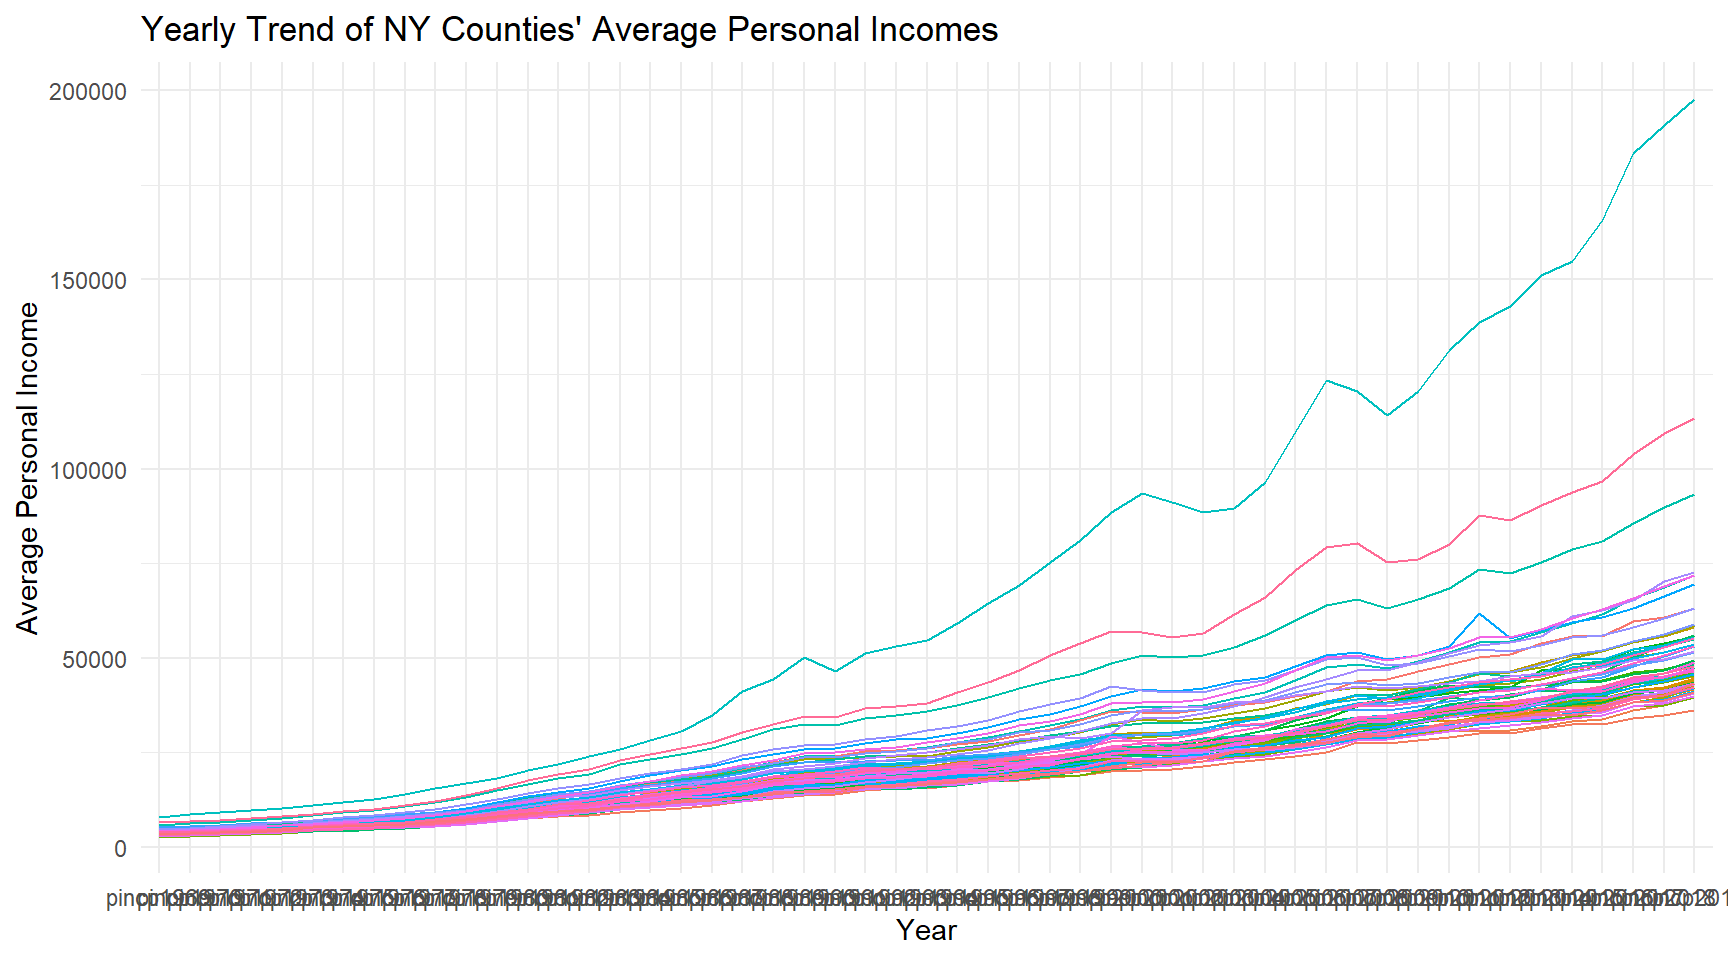
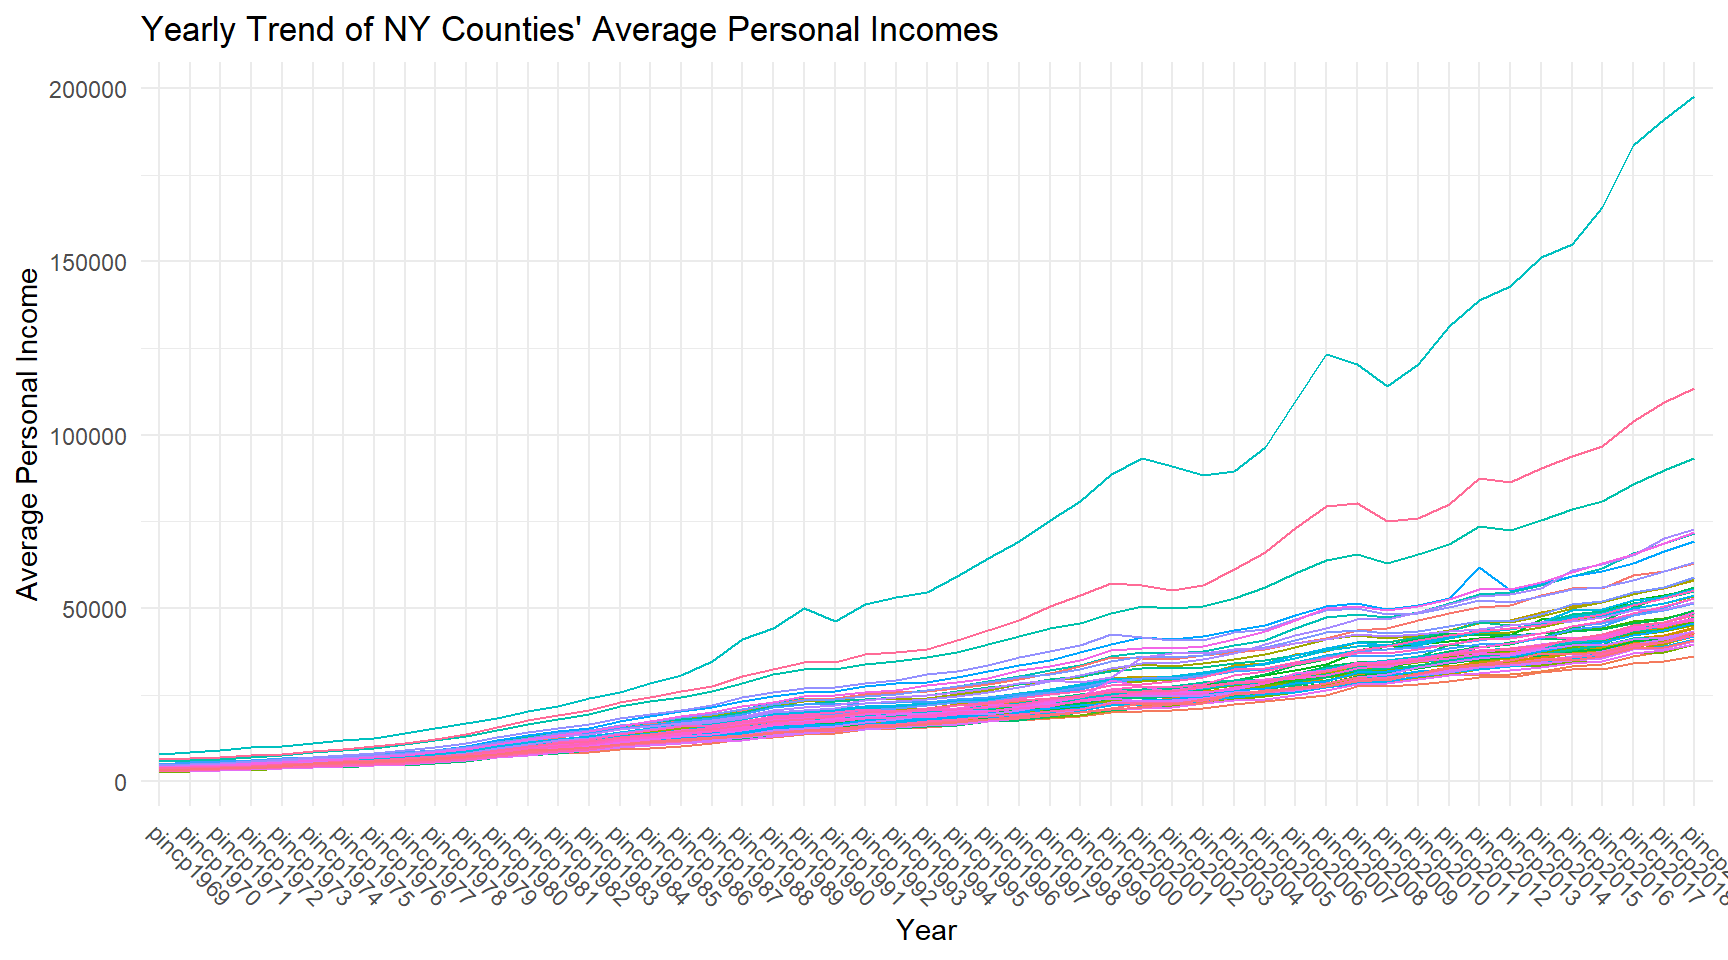
done

diff --git a/project.html b/project.html
@@ -9,7 +9,6 @@
 <meta name="author" content="Jaxson Marsh">
 <meta name="author" content="Edward Eforo">
 <meta name="author" content="Angelina Batista">
-<meta name="author" content="Daniel Noone">
 <meta name="author" content="Elizabeth Dutan">
 
 <title>Jaxson Marsh - DANL Project</title>
@@ -156,7 +155,10 @@ pre > code.sourceCode > span > a:first-child::before { text-decoration: underlin
   <li><a href="#data" id="toc-data" class="nav-link" data-scroll-target="#data"><span class="header-section-number">2</span> Data</a>
   <ul class="collapse">
   <li><a href="#summary-statistics" id="toc-summary-statistics" class="nav-link" data-scroll-target="#summary-statistics"><span class="header-section-number">2.1</span> Summary Statistics</a></li>
-  <li><a href="#quality-of-sleep-under-stress" id="toc-quality-of-sleep-under-stress" class="nav-link" data-scroll-target="#quality-of-sleep-under-stress"><span class="header-section-number">2.2</span> Quality of Sleep Under Stress</a></li>
+  <li><a href="#sleep-duration-by-ocupation" id="toc-sleep-duration-by-ocupation" class="nav-link" data-scroll-target="#sleep-duration-by-ocupation"><span class="header-section-number">2.2</span> Sleep Duration by Ocupation</a></li>
+  <li><a href="#effect-of-physical-activity-and-sleep-duration-on-stress" id="toc-effect-of-physical-activity-and-sleep-duration-on-stress" class="nav-link" data-scroll-target="#effect-of-physical-activity-and-sleep-duration-on-stress"><span class="header-section-number">2.3</span> Effect of Physical Activity and Sleep Duration on Stress</a></li>
+  <li><a href="#sleep-duration-and-quality-of-sleep-among-varying-sleep-disorders" id="toc-sleep-duration-and-quality-of-sleep-among-varying-sleep-disorders" class="nav-link" data-scroll-target="#sleep-duration-and-quality-of-sleep-among-varying-sleep-disorders"><span class="header-section-number">2.4</span> Sleep Duration and Quality of Sleep Among Varying Sleep Disorders</a></li>
+  <li><a href="#effect-of-age-and-occupation-on-bmi" id="toc-effect-of-age-and-occupation-on-bmi" class="nav-link" data-scroll-target="#effect-of-age-and-occupation-on-bmi"><span class="header-section-number">2.5</span> Effect of Age and Occupation on BMI</a></li>
   </ul></li>
   </ul>
 </nav>
@@ -180,7 +182,6 @@ pre > code.sourceCode > span > a:first-child::before { text-decoration: underlin
              <p>Jaxson Marsh </p>
              <p>Edward Eforo </p>
              <p>Angelina Batista </p>
-             <p>Daniel Noone </p>
              <p>Elizabeth Dutan </p>
           </div>
   </div>
@@ -201,7 +202,7 @@ pre > code.sourceCode > span > a:first-child::before { text-decoration: underlin
 </section>
 <section id="data" class="level1" data-number="2">
 <h1 data-number="2"><span class="header-section-number">2</span> Data</h1>
-<p>The data.frame <code>sleephealth</code> contains a subset of the fuel economy data that the EPA makes available on <a href="https://fueleconomy.gov/">https://kaggle.com/</a>. It comprises 400 rows and 13 columns, covering a wide range of variables related to sleep and daily habits. It includes details such as gender, age, occupation, sleep duration, quality of sleep, physical activity level, stress levels, BMI category, blood pressure, heart rate, daily steps, and the presence or absence of sleep disorders. <span class="emoji" data-emoji="bed">🛏</span></p>
+<p>The data.frame <code>sleephealth</code> contains a subset of the fuel economy data that the EPA makes available on <a href="https://fueleconomy.gov/">https://kaggle.com/</a>. It comprises 400 rows and 13 columns, covering a wide range of variables related to sleep and daily habits. It includes variables such as gender, age, occupation, sleep duration, quality of sleep, physical activity level, stress levels, BMI category, blood pressure, heart rate, daily steps, and the presence or absence of sleep disorders. <span class="emoji" data-emoji="bed">🛏</span></p>
 <section id="summary-statistics" class="level2" data-number="2.1">
 <h2 data-number="2.1" class="anchored" data-anchor-id="summary-statistics"><span class="header-section-number">2.1</span> Summary Statistics</h2>
 <div class="cell">
@@ -451,9 +452,101 @@ pre > code.sourceCode > span > a:first-child::before { text-decoration: underlin
 </div>
 </div>
 </section>
-<section id="quality-of-sleep-under-stress" class="level2" data-number="2.2">
-<h2 data-number="2.2" class="anchored" data-anchor-id="quality-of-sleep-under-stress"><span class="header-section-number">2.2</span> Quality of Sleep Under Stress</h2>
-<p>The following boxplot shows how the distribution of Quality of Sleep (<code>Quality.of.Sleep</code>) varies by a Stress Level (<code>Stress.Level</code>) <span class="emoji" data-emoji="sleeping">😴</span> <span class="emoji" data-emoji="bed">🛏</span> <span class="emoji" data-emoji="angry">😠</span>.</p>
+<section id="sleep-duration-by-ocupation" class="level2" data-number="2.2">
+<h2 data-number="2.2" class="anchored" data-anchor-id="sleep-duration-by-ocupation"><span class="header-section-number">2.2</span> Sleep Duration by Ocupation</h2>
+<p>The following boxplot shows how the mean sleep duration (<code>Sleep.Duration</code>) varies by occupation (<code>Occupation</code>) <span class="emoji" data-emoji="sleeping">😴</span> <span class="emoji" data-emoji="bed">🛏</span> .</p>
+<div class="cell">
+<div class="sourceCode cell-code" id="cb4"><pre class="sourceCode r code-with-copy"><code class="sourceCode r"><span id="cb4-1"><a href="#cb4-1" aria-hidden="true" tabindex="-1"></a>mean_sleep_job <span class="ot">&lt;-</span> sleephealth <span class="sc">%&gt;%</span></span>
+<span id="cb4-2"><a href="#cb4-2" aria-hidden="true" tabindex="-1"></a>  <span class="fu">group_by</span>(Occupation) <span class="sc">%&gt;%</span></span>
+<span id="cb4-3"><a href="#cb4-3" aria-hidden="true" tabindex="-1"></a>  <span class="fu">summarize</span>(</span>
+<span id="cb4-4"><a href="#cb4-4" aria-hidden="true" tabindex="-1"></a>    <span class="at">n =</span> <span class="fu">n</span>(),</span>
+<span id="cb4-5"><a href="#cb4-5" aria-hidden="true" tabindex="-1"></a>    <span class="at">sleep_mean =</span> <span class="fu">mean</span>(Sleep.Duration, <span class="at">na.rm =</span> <span class="cn">TRUE</span>)</span>
+<span id="cb4-6"><a href="#cb4-6" aria-hidden="true" tabindex="-1"></a>  ) <span class="sc">%&gt;%</span></span>
+<span id="cb4-7"><a href="#cb4-7" aria-hidden="true" tabindex="-1"></a>  <span class="fu">arrange</span>(<span class="fu">desc</span>(n))</span>
+<span id="cb4-8"><a href="#cb4-8" aria-hidden="true" tabindex="-1"></a>mean_sleep_job</span></code><button title="Copy to Clipboard" class="code-copy-button"><i class="bi"></i></button></pre></div>
+<div class="cell-output cell-output-stdout">
+<pre><code># A tibble: 11 × 3
+   Occupation               n sleep_mean
+   &lt;chr&gt;                &lt;int&gt;      &lt;dbl&gt;
+ 1 Nurse                   73       7.06
+ 2 Doctor                  71       6.97
+ 3 Engineer                63       7.99
+ 4 Lawyer                  47       7.41
+ 5 Teacher                 40       6.69
+ 6 Accountant              37       7.11
+ 7 Salesperson             32       6.40
+ 8 Scientist                4       6   
+ 9 Software Engineer        4       6.75
+10 Sales Representative     2       5.9 
+11 Manager                  1       6.9 </code></pre>
+</div>
+<div class="sourceCode cell-code" id="cb6"><pre class="sourceCode r code-with-copy"><code class="sourceCode r"><span id="cb6-1"><a href="#cb6-1" aria-hidden="true" tabindex="-1"></a><span class="fu">ggplot</span>( <span class="at">data =</span> mean_sleep_job, <span class="at">mapping =</span> <span class="fu">aes</span>(<span class="at">x =</span> Occupation, <span class="at">y =</span> sleep_mean)) <span class="sc">+</span> </span>
+<span id="cb6-2"><a href="#cb6-2" aria-hidden="true" tabindex="-1"></a>          <span class="fu">geom_bar</span>(<span class="at">stat =</span> <span class="st">"identity"</span>) <span class="sc">+</span></span>
+<span id="cb6-3"><a href="#cb6-3" aria-hidden="true" tabindex="-1"></a>  <span class="fu">theme</span>(<span class="at">axis.text.x =</span> <span class="fu">element_text</span>(</span>
+<span id="cb6-4"><a href="#cb6-4" aria-hidden="true" tabindex="-1"></a>  <span class="at">angle =</span> <span class="sc">-</span><span class="dv">45</span>,</span>
+<span id="cb6-5"><a href="#cb6-5" aria-hidden="true" tabindex="-1"></a>  <span class="at">hjust =</span> <span class="dv">0</span>,</span>
+<span id="cb6-6"><a href="#cb6-6" aria-hidden="true" tabindex="-1"></a>  <span class="at">vjust =</span> <span class="dv">1</span></span>
+<span id="cb6-7"><a href="#cb6-7" aria-hidden="true" tabindex="-1"></a>))</span></code><button title="Copy to Clipboard" class="code-copy-button"><i class="bi"></i></button></pre></div>
+<div class="cell-output-display">
+<p><img src="project_files/figure-html/unnamed-chunk-5-1.png" class="img-fluid" width="864"></p>
+</div>
+</div>
+<p>The bar graph represents the mean sleep duration amongst all the presented occupations in the ‘sleephealth’ dataset. After putting the data into a ggplot figure, it was found that engineer’s, on average, have the highest mean sleep duration at about 8 hours per night, and sales representative’s had the lowest mean sleep duration at just under 6 hours a night.</p>
+</section>
+<section id="effect-of-physical-activity-and-sleep-duration-on-stress" class="level2" data-number="2.3">
+<h2 data-number="2.3" class="anchored" data-anchor-id="effect-of-physical-activity-and-sleep-duration-on-stress"><span class="header-section-number">2.3</span> Effect of Physical Activity and Sleep Duration on Stress</h2>
+<p>This ggplot shows the effect of someone’s sleep duration (‘Sleep.Duration’) and level of physical activity (‘Physical.Activity.Level’) on their stress levels (‘Stress.Level’) <span class="emoji" data-emoji="angry">😠</span> <span class="emoji" data-emoji="smile">😄</span> .</p>
+<div class="cell">
+<div class="sourceCode cell-code" id="cb7"><pre class="sourceCode r code-with-copy"><code class="sourceCode r"><span id="cb7-1"><a href="#cb7-1" aria-hidden="true" tabindex="-1"></a><span class="fu">ggplot</span>(sleephealth, <span class="fu">aes</span>(<span class="at">x =</span> Sleep.Duration, <span class="at">y =</span> Physical.Activity.Level, <span class="at">color =</span> Stress.Level)) <span class="sc">+</span></span>
+<span id="cb7-2"><a href="#cb7-2" aria-hidden="true" tabindex="-1"></a>  <span class="fu">geom_point</span>() <span class="sc">+</span></span>
+<span id="cb7-3"><a href="#cb7-3" aria-hidden="true" tabindex="-1"></a>  <span class="fu">labs</span>(<span class="at">title =</span> <span class="st">"Effect of Physical Activity and Sleep Duration on Stress"</span>,</span>
+<span id="cb7-4"><a href="#cb7-4" aria-hidden="true" tabindex="-1"></a>       <span class="at">x =</span> <span class="st">"Sleep Duration"</span>,</span>
+<span id="cb7-5"><a href="#cb7-5" aria-hidden="true" tabindex="-1"></a>       <span class="at">y =</span> <span class="st">"Physical Activity Level"</span>,</span>
+<span id="cb7-6"><a href="#cb7-6" aria-hidden="true" tabindex="-1"></a>       <span class="at">color =</span> <span class="st">"Stress Level"</span>) <span class="sc">+</span></span>
+<span id="cb7-7"><a href="#cb7-7" aria-hidden="true" tabindex="-1"></a>  <span class="fu">theme</span>(<span class="at">plot.title =</span> <span class="fu">element_text</span>(<span class="at">size =</span> <span class="dv">10</span>))</span></code><button title="Copy to Clipboard" class="code-copy-button"><i class="bi"></i></button></pre></div>
+<div class="cell-output-display">
+<p><img src="project_files/figure-html/unnamed-chunk-6-1.png" class="img-fluid" width="864"></p>
+</div>
+</div>
+<p>The above scatter plot visualizes the relationship between sleep duration and physical activity level in the ‘sleephealth’ dataset, with stress levels represented by color. Some interesting findings that were found was that a higher sleep duration and level of physical activity resulted in lower overall stress levels, while higher stress levels were a result of the inverse.</p>
+</section>
+<section id="sleep-duration-and-quality-of-sleep-among-varying-sleep-disorders" class="level2" data-number="2.4">
+<h2 data-number="2.4" class="anchored" data-anchor-id="sleep-duration-and-quality-of-sleep-among-varying-sleep-disorders"><span class="header-section-number">2.4</span> Sleep Duration and Quality of Sleep Among Varying Sleep Disorders</h2>
+<p>This ggplot shows the effect of different sleep disorders (‘Sleep.Disorder’) on the subjects’ quality of sleep (‘Quality.of.Sleep’) and overall sleep duration (‘Sleep.Duration’).</p>
+<div class="cell">
+<div class="sourceCode cell-code" id="cb8"><pre class="sourceCode r code-with-copy"><code class="sourceCode r"><span id="cb8-1"><a href="#cb8-1" aria-hidden="true" tabindex="-1"></a><span class="fu">ggplot</span>(sleephealth, <span class="fu">aes</span>(<span class="at">x =</span> Sleep.Duration, <span class="at">y =</span> Quality.of.Sleep, <span class="at">color =</span> Quality.of.Sleep)) <span class="sc">+</span></span>
+<span id="cb8-2"><a href="#cb8-2" aria-hidden="true" tabindex="-1"></a>  <span class="fu">geom_point</span>() <span class="sc">+</span></span>
+<span id="cb8-3"><a href="#cb8-3" aria-hidden="true" tabindex="-1"></a>  <span class="fu">facet_wrap</span>(<span class="sc">~</span> Sleep.Disorder) <span class="sc">+</span></span>
+<span id="cb8-4"><a href="#cb8-4" aria-hidden="true" tabindex="-1"></a>  <span class="fu">labs</span>(<span class="at">title =</span> <span class="st">"Scatter Plot of Sleep Duration vs Quality of Sleep"</span>,</span>
+<span id="cb8-5"><a href="#cb8-5" aria-hidden="true" tabindex="-1"></a>       <span class="at">x =</span> <span class="st">"Sleep Duration"</span>,</span>
+<span id="cb8-6"><a href="#cb8-6" aria-hidden="true" tabindex="-1"></a>       <span class="at">y =</span> <span class="st">"Quality of Sleep"</span>,</span>
+<span id="cb8-7"><a href="#cb8-7" aria-hidden="true" tabindex="-1"></a>       <span class="at">color =</span> <span class="st">"Quality of Sleep"</span>) <span class="sc">+</span></span>
+<span id="cb8-8"><a href="#cb8-8" aria-hidden="true" tabindex="-1"></a>  <span class="fu">scale_color_gradient</span>(<span class="at">low =</span> <span class="st">"blue"</span>, <span class="at">high =</span> <span class="st">"red"</span>) <span class="sc">+</span></span>
+<span id="cb8-9"><a href="#cb8-9" aria-hidden="true" tabindex="-1"></a>  <span class="fu">theme</span>(<span class="at">plot.title =</span> <span class="fu">element_text</span>(<span class="at">size =</span> <span class="dv">12</span>))</span></code><button title="Copy to Clipboard" class="code-copy-button"><i class="bi"></i></button></pre></div>
+<div class="cell-output-display">
+<p><img src="project_files/figure-html/unnamed-chunk-7-1.png" class="img-fluid" width="864"></p>
+</div>
+</div>
+<p>The scatterplots shown above outlines the ‘Quality.of.Sleep’ and “Sleep.Duration’ by varying ‘Sleep.Disorder’s shown within the ’sleephealth’ dataset. After compliling the ggplot, it was intersting to find that the three scatterplots showed a similar pattern amongst their data points, and that people with no sleep disorder didnt have a quality of sleep below ~6, even if they slept for the minimum number of hours.</p>
+</section>
+<section id="effect-of-age-and-occupation-on-bmi" class="level2" data-number="2.5">
+<h2 data-number="2.5" class="anchored" data-anchor-id="effect-of-age-and-occupation-on-bmi"><span class="header-section-number">2.5</span> Effect of Age and Occupation on BMI</h2>
+<p>The following ggplot represents how BMI (‘BMI.Category’) is different depending on each job (‘Occupation’) and varying ages (‘Age’).</p>
+<div class="cell">
+<div class="sourceCode cell-code" id="cb9"><pre class="sourceCode r code-with-copy"><code class="sourceCode r"><span id="cb9-1"><a href="#cb9-1" aria-hidden="true" tabindex="-1"></a><span class="fu">ggplot</span>(sleephealth, <span class="fu">aes</span>(<span class="at">x =</span> BMI.Category, <span class="at">y =</span> Age, <span class="at">fill =</span> Occupation)) <span class="sc">+</span></span>
+<span id="cb9-2"><a href="#cb9-2" aria-hidden="true" tabindex="-1"></a>  <span class="fu">geom_tile</span>(<span class="at">color =</span> <span class="st">"white"</span>) <span class="sc">+</span></span>
+<span id="cb9-3"><a href="#cb9-3" aria-hidden="true" tabindex="-1"></a>  <span class="fu">scale_fill_brewer</span>(<span class="at">palette =</span> <span class="st">"Set2"</span>) <span class="sc">+</span></span>
+<span id="cb9-4"><a href="#cb9-4" aria-hidden="true" tabindex="-1"></a>  <span class="fu">labs</span>(<span class="at">title =</span> <span class="st">"Heatmap of BMI Category by Age and Occupation"</span>,</span>
+<span id="cb9-5"><a href="#cb9-5" aria-hidden="true" tabindex="-1"></a>       <span class="at">x =</span> <span class="st">"BMI Category"</span>,</span>
+<span id="cb9-6"><a href="#cb9-6" aria-hidden="true" tabindex="-1"></a>       <span class="at">y =</span> <span class="st">"Age"</span>,</span>
+<span id="cb9-7"><a href="#cb9-7" aria-hidden="true" tabindex="-1"></a>       <span class="at">fill =</span> <span class="st">"Occupation"</span>) <span class="sc">+</span></span>
+<span id="cb9-8"><a href="#cb9-8" aria-hidden="true" tabindex="-1"></a>  <span class="fu">theme_minimal</span>() <span class="sc">+</span></span>
+<span id="cb9-9"><a href="#cb9-9" aria-hidden="true" tabindex="-1"></a>  <span class="fu">theme</span>(<span class="at">axis.text.x =</span> <span class="fu">element_text</span>(<span class="at">angle =</span> <span class="dv">45</span>, <span class="at">hjust =</span> <span class="dv">1</span>))</span></code><button title="Copy to Clipboard" class="code-copy-button"><i class="bi"></i></button></pre></div>
+<div class="cell-output-display">
+<p><img src="project_files/figure-html/unnamed-chunk-8-1.png" class="img-fluid" width="864"></p>
+</div>
+</div>
+<p>The heatmap shown above represents two variables, ‘Occupation’ and ‘Age’, and their effect on ‘BMI.Category’ within the ‘sleephealth’ data frame. Some interesting things to note from the plot is that, most engineers of all ages were within a normal weight range, and that all the salespersons that were subjected to the data are between the ages of 40-45 years old and also overweight.</p>
 
 
 </section>

diff --git a/classwork-10.html b/classwork-10.html
@@ -263,7 +263,12 @@ pre > code.sourceCode > span > a:first-child::before { text-decoration: underlin
 <span id="cb6-4"><a href="#cb6-4" aria-hidden="true" tabindex="-1"></a>       <span class="at">x =</span> <span class="st">"Year"</span>,</span>
 <span id="cb6-5"><a href="#cb6-5" aria-hidden="true" tabindex="-1"></a>       <span class="at">y =</span> <span class="st">"Average Personal Income"</span>) <span class="sc">+</span></span>
 <span id="cb6-6"><a href="#cb6-6" aria-hidden="true" tabindex="-1"></a>  <span class="fu">theme_minimal</span>() <span class="sc">+</span></span>
-<span id="cb6-7"><a href="#cb6-7" aria-hidden="true" tabindex="-1"></a>  <span class="fu">theme</span>(<span class="at">legend.position =</span> <span class="st">"none"</span>)</span></code><button title="Copy to Clipboard" class="code-copy-button"><i class="bi"></i></button></pre></div>
+<span id="cb6-7"><a href="#cb6-7" aria-hidden="true" tabindex="-1"></a>  <span class="fu">theme</span>(<span class="at">legend.position =</span> <span class="st">"none"</span>) <span class="sc">+</span></span>
+<span id="cb6-8"><a href="#cb6-8" aria-hidden="true" tabindex="-1"></a>  <span class="fu">theme</span>(<span class="at">axis.text.x =</span> <span class="fu">element_text</span>(</span>
+<span id="cb6-9"><a href="#cb6-9" aria-hidden="true" tabindex="-1"></a>  <span class="at">angle =</span> <span class="sc">-</span><span class="dv">45</span>,</span>
+<span id="cb6-10"><a href="#cb6-10" aria-hidden="true" tabindex="-1"></a>  <span class="at">hjust =</span> <span class="dv">0</span>,</span>
+<span id="cb6-11"><a href="#cb6-11" aria-hidden="true" tabindex="-1"></a>  <span class="at">vjust =</span> <span class="dv">1</span></span>
+<span id="cb6-12"><a href="#cb6-12" aria-hidden="true" tabindex="-1"></a>))</span></code><button title="Copy to Clipboard" class="code-copy-button"><i class="bi"></i></button></pre></div>
 <div class="cell-output-display">
 <p><img src="classwork-10_files/figure-html/unnamed-chunk-8-1.png" class="img-fluid" width="864"></p>
 </div>

diff --git a/blog-listing.html b/blog-listing.html
@@ -191,7 +191,7 @@ ul.task-list li input[type="checkbox"] {
     </div>
 </div>
 <div class="list quarto-listing-default">
-<div class="quarto-post image-right" data-index="0" data-categories="news" data-listing-date-sort="1702098000000" data-listing-file-modified-sort="1702255908706" data-listing-date-modified-sort="NaN" data-listing-reading-time-sort="1">
+<div class="quarto-post image-right" data-index="0" data-categories="news" data-listing-date-sort="1702098000000" data-listing-file-modified-sort="1702255980206" data-listing-date-modified-sort="NaN" data-listing-reading-time-sort="1">
 <div class="thumbnail">
 <p><a href="./posts/welcome/index.html"> <p class="card-img-top"><img src="posts\welcome\blog.webp"  class="thumbnail-image card-img"/></p> </a></p>
 </div>
@@ -275,7 +275,7 @@ Jaxson Marsh
 </a>
 </div>
 </div>
-<div class="quarto-post image-right" data-index="3" data-categories="NFL in 2022,code,analysis" data-listing-date-sort="1702098000000" data-listing-file-modified-sort="1702152168112" data-listing-date-modified-sort="NaN" data-listing-reading-time-sort="6">
+<div class="quarto-post image-right" data-index="3" data-categories="NFL in 2022,code,analysis" data-listing-date-sort="1702098000000" data-listing-file-modified-sort="1702329296366" data-listing-date-modified-sort="NaN" data-listing-reading-time-sort="6">
 <div class="thumbnail">
 <p><a href="./posts/NFL in 2022/NFL in 2022.html"> <img src="./posts/NFL in 2022/NFL.jpg" class="thumbnail-image"> </a></p>
 </div>

diff --git a/posts/welcome/index.html b/posts/welcome/index.html
@@ -150,7 +150,7 @@ ul.task-list li input[type="checkbox"] {
 <ul>
 <li>Spotify</li>
 <li>NFL in 2022</li>
-<li>NYC Restaurant Inspections</li>
+<li>NYC Restaurant Inspection</li>
 <li>Beer Markets</li>
 </ul>
 <p><img src="blog.webp" class="img-fluid"></p>
